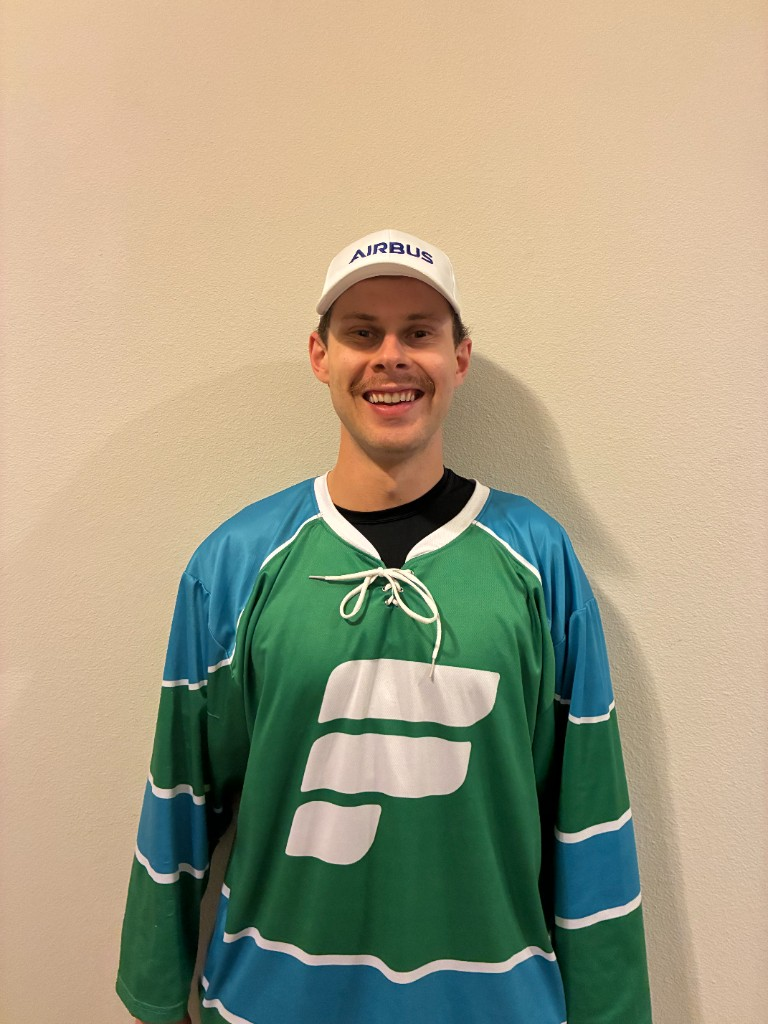
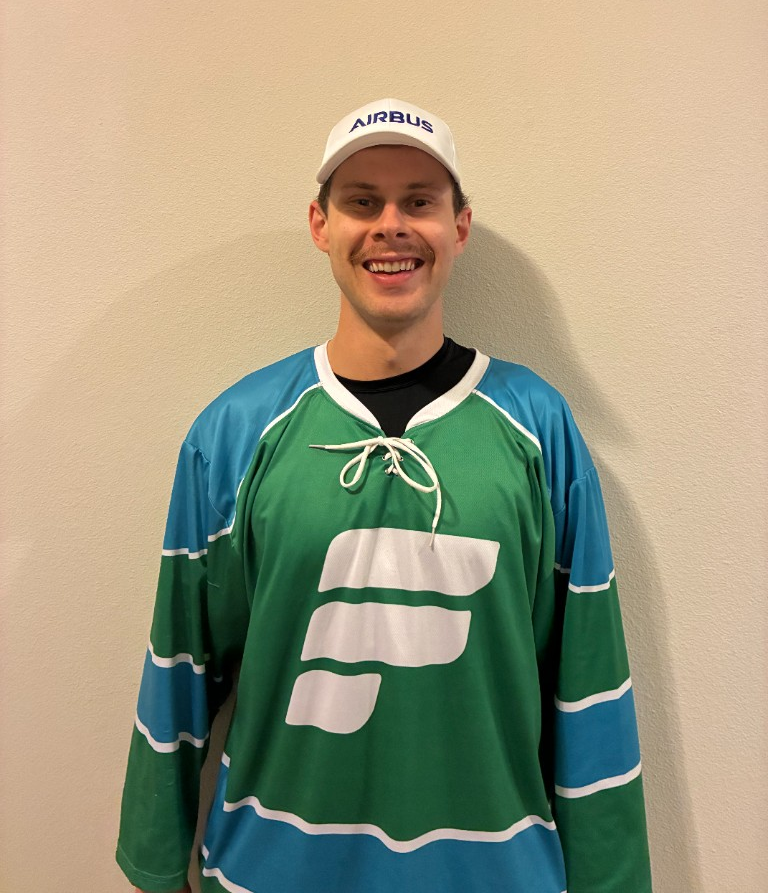
Tune Zach and Blake roster photo crop; refresh headshot images
Made-with: Cursor

Changed region(s): [[0.1562, 0.0907, 0.875, 0.9978], [0.1562, 0.9675, 0.1875, 0.9978]]

diff --git a/src/lib/roster-data.ts b/src/lib/roster-data.ts
@@ -93,6 +93,7 @@ export const rosterPlayers: RosterPlayer[] = [
     jerseyNumber: 7,
     hockeyPosition: "Left Wing",
     photoUrl: "/images/players/zach-parks.png",
+    photoObjectPosition: "center 16%",
     nhlTeam: { name: "Philadelphia Flyers", logoAbbr: "PHI" },
   },
   {
@@ -104,6 +105,7 @@ export const rosterPlayers: RosterPlayer[] = [
     hockeyPosition: "Water Boy/Forward",
     photoUrl: "/images/players/blake-eric-wolanin.png",
     photoZoom: 1.28,
+    photoObjectPosition: "center 14%",
     nhlTeam: { name: "Boston Bruins", logoAbbr: "BOS" },
   },
   {
